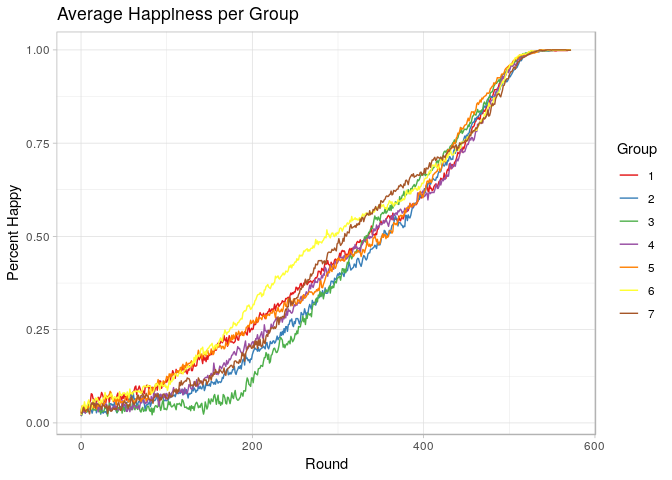
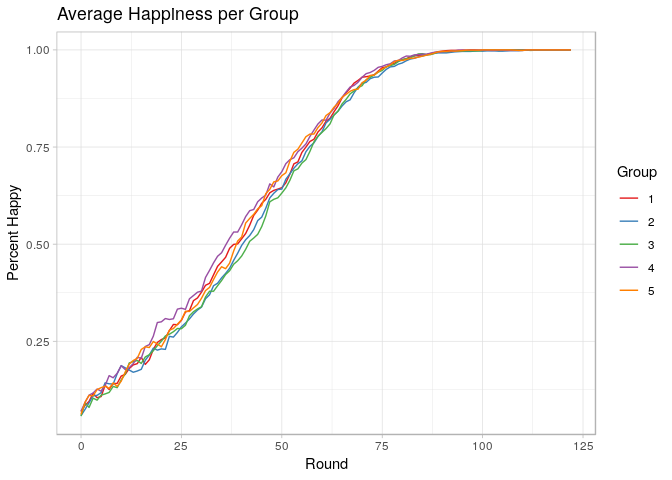
updated color in plot_grid

diff --git a/README.md b/README.md
@@ -121,7 +121,7 @@ To give a more complex example on a larger grid with 7
 groups:
 
 ``` r
-sh2 <- run_schelling(size = 100, number_of_groups = 7, max_rounds = 10000, seed = 1234567)
+sh2 <- run_schelling(size = 100, number_of_groups = 5, max_rounds = 10000, seed = 1234567)
 
 sh2$detailed %>% 
   filter(group != 0) %>% 
@@ -139,7 +139,7 @@ sh2$detailed %>%
 ``` r
 
 
-plot_grid(sh2, select_round = 500, title = TRUE)
+plot_grid(sh2, select_round = 500, title = TRUE, grid = FALSE)
 ```
 
 ![](images/README-unnamed-chunk-7-2.png)<!-- -->
